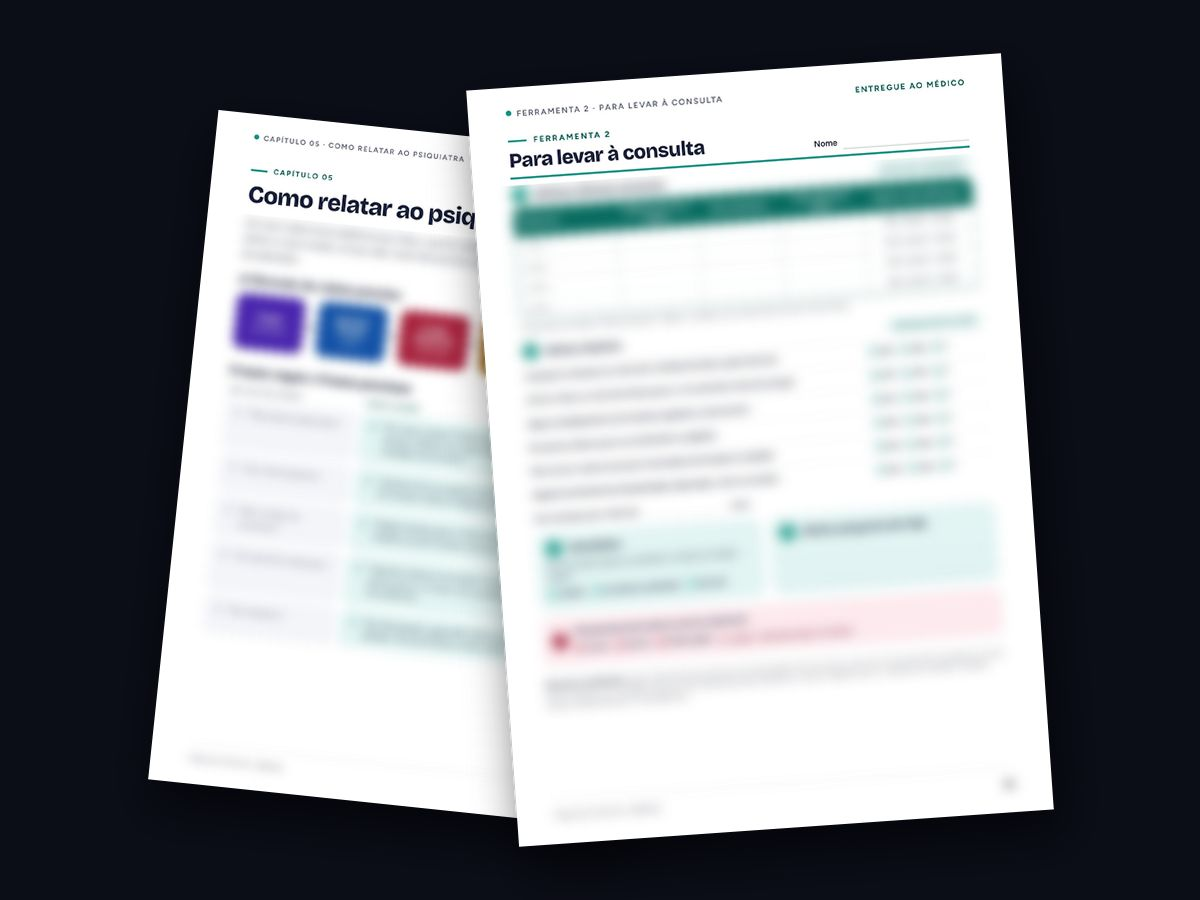
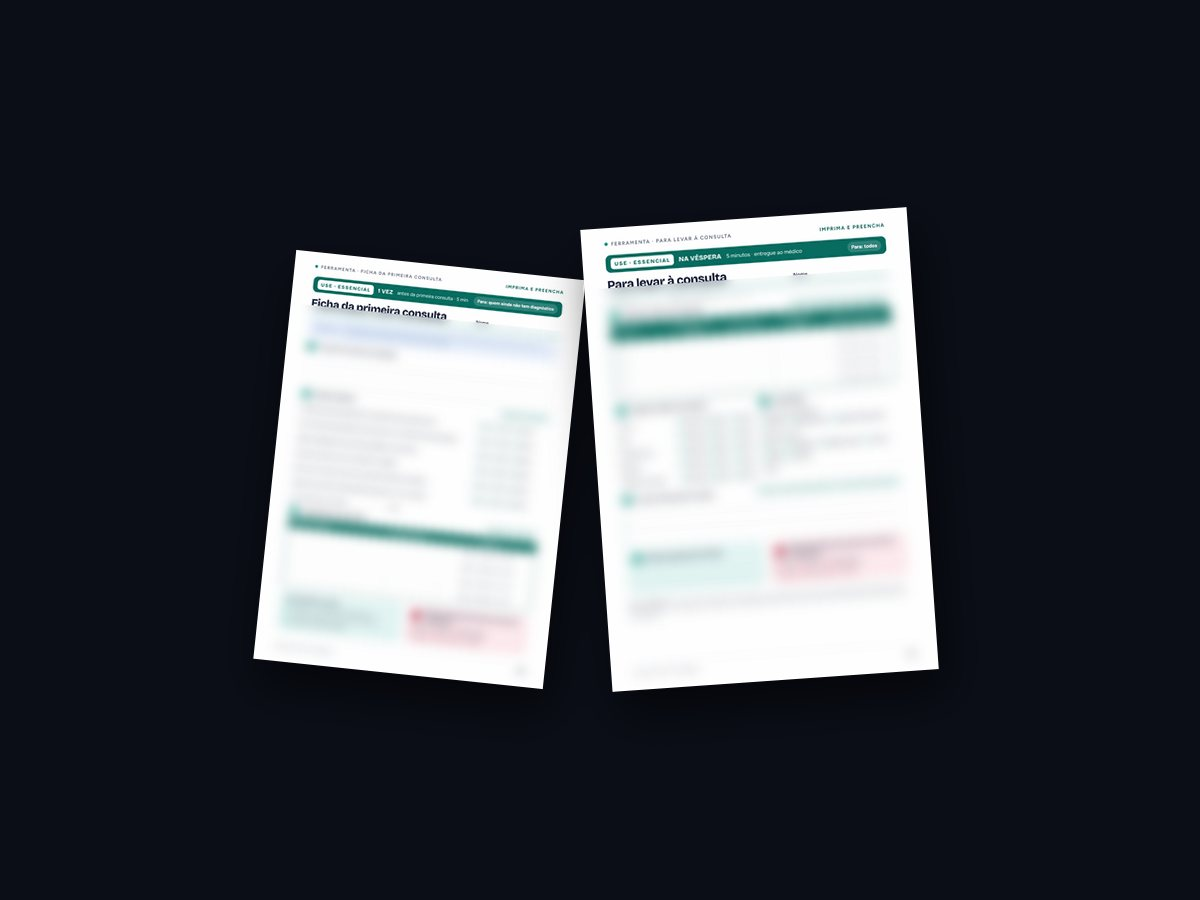
Guia para a primeira consulta: R$ 14,90, conteúdo v3, prévias e OG novos, atalho /app
Claude-Session: https://claude.ai/code/session_013hw32YeBtKAWYbxuXzWhPS

diff --git a/mapa-dos-sintomas/index.html b/mapa-dos-sintomas/index.html
@@ -4,11 +4,11 @@
   <meta charset="utf-8">
   <meta name="viewport" content="width=device-width, initial-scale=1">
   <title>Mapa dos Sintomas — Porta 00 · Draxora</title>
-  <meta name="description" content="Guia + folhas para registrar em 20 segundos por dia e relatar ao psiquiatra com clareza: Transtorno Bipolar (tipos 1 e 2), Borderline e TDAH. R$ 29,90, acesso imediato.">
+  <meta name="description" content="Guia + folhas para a primeira consulta: observe por alguns dias e conte ao psiquiatra com clareza. Bipolaridade, Borderline e TDAH. R$ 14,90, acesso imediato.">
   <meta property="og:title" content="Mapa dos Sintomas — Draxora">
   <meta property="og:description" content="Vai ao psiquiatra e trava na hora de explicar o que sente? Chegue com tudo organizado em uma página.">
   <meta property="og:type" content="website">
-  <meta property="og:image" content="https://draxora.com.br/assets/img/og-mapa-dos-sintomas-v2.jpg">
+  <meta property="og:image" content="https://draxora.com.br/assets/img/og-mapa-dos-sintomas-v3.jpg">
   <meta property="og:url" content="https://draxora.com.br/mapa-dos-sintomas/">
   <link rel="canonical" href="https://draxora.com.br/mapa-dos-sintomas/">
   <meta property="og:image:width" content="1200">
@@ -44,15 +44,15 @@
       <div class="launch-hero-top">
           <span class="dx-selo"><svg viewBox="-12 -12 24 24" width="12" height="12" aria-hidden="true"><path d="M0 -11 L3 -3 L11 0 L3 3 L0 11 L-3 3 L-11 0 L-3 -3 Z" fill="currentColor"/></svg>Bipolar 1 e 2 · Borderline · TDAH</span>
         </div>
-      <h1 class="h-xl">Vai ao psiquiatra e <em>trava</em> na hora de explicar o que sente?</h1>
-      <p class="lead">Um guia + folhas de 20 segundos por dia. Você chega à consulta com tudo em <strong>uma página</strong>.</p>
+      <h1 class="h-xl">Primeira consulta? Chegue sabendo <em>o que contar</em>.</h1>
+      <p class="lead">Um guia + 3 folhas para imprimir. Você observa por alguns dias e chega ao psiquiatra com tudo em <strong>uma página</strong>.</p>
       <figure class="hero-mock"><picture><source srcset="../assets/img/mk-hero.webp" type="image/webp"><img src="../assets/img/mk-hero.jpg" alt="Capa do Mapa dos Sintomas com prévias da Folha da semana e da Página para a consulta" width="1400" height="1060" fetchpriority="high"></picture></figure>
       <div class="home-hero-actions">
-          <a class="dx-btn dx-btn-primary dx-btn-lg" href="checkout/index.html" data-keep-query>Quero o meu por R$ 29,90</a>
+          <a class="dx-btn dx-btn-primary dx-btn-lg" href="checkout/index.html" data-keep-query>Quero o meu por R$ 14,90</a>
         </div>
       <div class="launch-hero-proof">
           <span>Acesso imediato</span>
-          <span>PDF de 22 páginas</span>
+          <span>PDF de 25 páginas</span>
           <span>Garantia de 7 dias</span>
         </div>
     </div>
@@ -62,8 +62,8 @@
     <div class="wrap feat">
       <div class="feat-copy reveal">
         <p class="dx-label dx-label-nicho">O guia · 5 capítulos</p>
-        <h2 class="h-l">Entenda o que diferencia cada quadro.</h2>
-        <p class="lead">Bipolar 1 e 2, Borderline e TDAH explicados sem jargão, com os sinais que costumam passar despercebidos.</p>
+        <h2 class="h-l">Entenda os três quadros, sem jargão.</h2>
+        <p class="lead">Bipolar 1 e 2, Borderline e TDAH, com os sinais que costumam passar despercebidos. Para observar e contar, nunca para se diagnosticar.</p>
         <ul class="feat-chips"><li>Bipolar tipos 1 e 2</li><li>Borderline</li><li>TDAH em adultos</li></ul>
         
       </div>
@@ -76,13 +76,13 @@
     <div class="wrap feat is-rev">
       <div class="feat-copy reveal">
         <p class="dx-label dx-label-nicho">Capítulo 4</p>
-        <h2 class="h-l">Os quatro quadros lado a lado.</h2>
-        <p class="lead">Uma tabela comparativa e uma régua da duração mostram o que o médico precisa saber para diferenciar.</p>
-        <ul class="feat-chips"><li>Tabela comparativa</li><li>Régua da duração</li></ul>
-        <a class="dx-btn dx-btn-primary dx-btn-lg" href="checkout/index.html" data-keep-query>Quero o meu por R$ 29,90</a>
+        <h2 class="h-l">O que vale a pena <em>observar</em>.</h2>
+        <p class="lead">Seis perguntas para você responder antes da consulta, cada uma ligada à folha onde anotar. Fatos, não rótulos.</p>
+        <ul class="feat-chips"><li>Detalhes que vale observar</li><li>Fatos, não rótulos</li></ul>
+        <a class="dx-btn dx-btn-primary dx-btn-lg" href="checkout/index.html" data-keep-query>Quero o meu por R$ 14,90</a>
         
       </div>
-      <figure class="feat-img reveal"><picture><source srcset="../assets/img/mk-tabela.webp" type="image/webp"><img src="../assets/img/mk-tabela.jpg" alt="Prévia da tabela comparativa e da régua da duração" width="1200" height="900" loading="lazy"></picture><figcaption class="prev-tag">Prévia</figcaption></figure>
+      <figure class="feat-img reveal"><picture><source srcset="../assets/img/mk-observar.webp" type="image/webp"><img src="../assets/img/mk-observar.jpg" alt="Prévia das páginas Detalhes que vale a pena observar e Fatos, não rótulos" width="1200" height="900" loading="lazy"></picture><figcaption class="prev-tag">Prévia</figcaption></figure>
     </div>
   </section>
 
@@ -90,9 +90,9 @@
   <section class="section feat-sec">
     <div class="wrap feat">
       <div class="feat-copy reveal">
-        <p class="dx-label dx-label-nicho">Folha da semana</p>
+        <p class="dx-label dx-label-nicho">Minha semana</p>
         <h2 class="h-l">20 segundos por dia. <em>Só pintar.</em></h2>
-        <p class="lead">Sem escrever e sem dar nota. Funciona até no dia ruim.</p>
+        <p class="lead">Sem escrever e sem dar nota. Dia difícil? Só o humor já vale.</p>
         <ul class="feat-chips"><li>1 folha por semana</li><li>Para imprimir</li></ul>
         
       </div>
@@ -104,13 +104,13 @@
   <section class="section feat-sec">
     <div class="wrap feat is-rev">
       <div class="feat-copy reveal">
-        <p class="dx-label dx-label-nicho">Para levar à consulta</p>
-        <h2 class="h-l">Uma página que o médico lê em <em>1 minuto</em>.</h2>
-        <p class="lead">Suas últimas semanas resumidas. Você entrega e a conversa começa do ponto certo.</p>
-        <ul class="feat-chips"><li>Pronta para entregar</li><li>Serve para cada retorno</li></ul>
-        <a class="dx-btn dx-btn-primary dx-btn-lg" href="checkout/index.html" data-keep-query>Quero o meu por R$ 29,90</a>
+        <p class="dx-label dx-label-nicho">Ficha + Para levar à consulta</p>
+        <h2 class="h-l">Sua história e suas semanas em <em>uma página</em>.</h2>
+        <p class="lead">A Ficha conta sua história uma vez. A página da consulta resume as semanas. Você entrega e a conversa começa do ponto certo.</p>
+        <ul class="feat-chips"><li>Pronta para entregar</li><li>Para cada consulta até o diagnóstico</li></ul>
+        <a class="dx-btn dx-btn-primary dx-btn-lg" href="checkout/index.html" data-keep-query>Quero o meu por R$ 14,90</a>
       </div>
-      <figure class="feat-img reveal"><picture><source srcset="../assets/img/mk-consulta.webp" type="image/webp"><img src="../assets/img/mk-consulta.jpg" alt="Prévia da página Para levar à consulta" width="1200" height="900" loading="lazy"></picture><figcaption class="prev-tag">Prévia</figcaption></figure>
+      <figure class="feat-img reveal"><picture><source srcset="../assets/img/mk-consulta.webp" type="image/webp"><img src="../assets/img/mk-consulta.jpg" alt="Prévia da Ficha da primeira consulta e da página Para levar à consulta" width="1200" height="900" loading="lazy"></picture><figcaption class="prev-tag">Prévia</figcaption></figure>
     </div>
   </section>
 
@@ -127,9 +127,8 @@
           <h3>É para você se…</h3>
           <ul class="check-list">
             <li>vai à primeira consulta;</li>
-            <li>não conseguiu explicar nas consultas anteriores;</li>
-            <li>já tem diagnóstico e quer acompanhar;</li>
-            <li>quer ajudar alguém da família.</li>
+            <li>ainda não tem diagnóstico e não conseguiu explicar nas consultas anteriores;</li>
+            <li>quer ajudar alguém da família a se preparar.</li>
           </ul>
         </div>
         <div class="split-col reveal">
@@ -137,7 +136,8 @@
           <ul class="check-list is-no">
             <li>fazer diagnóstico sozinho;</li>
             <li>substituir consulta ou tratamento;</li>
-            <li>mudar medicação por conta própria.</li>
+            <li>mudar medicação por conta própria;</li>
+            <li>acompanhar o tratamento depois do diagnóstico (para isso, vem aí o app).</li>
           </ul>
         </div>
       </div>
@@ -168,15 +168,15 @@
         <p class="dx-label">Guia + ferramentas</p>
         <h3 class="dx-offer-title" id="offer-title">Mapa dos Sintomas</h3>
         <ul class="dx-offer-list">
-          <li><span class="dx-check" aria-hidden="true"></span>Guia ilustrado de 22 páginas, 5 capítulos</li>
-          <li><span class="dx-check" aria-hidden="true"></span>Tabela comparativa e régua da duração</li>
-          <li><span class="dx-check" aria-hidden="true"></span>Folha da semana: 20 segundos por dia</li>
-          <li><span class="dx-check" aria-hidden="true"></span>Página pronta para a consulta</li>
+          <li><span class="dx-check" aria-hidden="true"></span>Guia ilustrado de 25 páginas, 5 capítulos</li>
+          <li><span class="dx-check" aria-hidden="true"></span>Ficha da primeira consulta</li>
+          <li><span class="dx-check" aria-hidden="true"></span>Minha semana: 20 segundos por dia</li>
+          <li><span class="dx-check" aria-hidden="true"></span>Página pronta para cada consulta</li>
         </ul>
         <div class="dx-offer-price">
           <span class="dx-offer-inst">Pagamento único</span>
-          <strong class="price-tag">R$ 29,90</strong>
-          <span class="dx-offer-inst">ou em até 3x no cartão (com acréscimo)</span>
+          <strong class="price-tag">R$ 14,90</strong>
+          <span class="dx-offer-inst">Pix, cartão ou boleto</span>
         </div>
         <a class="dx-btn dx-btn-primary dx-btn-lg" href="checkout/index.html" data-keep-query>Quero o Mapa dos Sintomas</a>
         <p class="dx-offer-guarantee">Acesso imediato · Garantia de 7 dias pela Hotmart</p>
@@ -194,8 +194,8 @@
       <div class="dx-faq reveal">
         <details class="dx-faq-item" open><summary><span>O guia diz qual transtorno eu tenho?</span><span class="dx-faq-icon" aria-hidden="true"></span></summary><div class="dx-faq-a">Não. Ele ajuda você a observar e descrever o que sente. Quem avalia e diagnostica é o profissional.</div></details>
         <details class="dx-faq-item"><summary><span>Como recebo o material?</span><span class="dx-faq-icon" aria-hidden="true"></span></summary><div class="dx-faq-a">Logo após a confirmação do pagamento, você recebe por e-mail o acesso à área de membros da Hotmart, onde baixa o PDF para ler no celular ou imprimir. No Pix e no cartão a liberação é imediata; no boleto, após a compensação.</div></details>
-        <details class="dx-faq-item"><summary><span>Serve se eu já tenho um diagnóstico?</span><span class="dx-faq-icon" aria-hidden="true"></span></summary><div class="dx-faq-a">Sim. A folha da semana e a página da consulta ajudam a acompanhar a evolução e a conversar com o médico em cada retorno.</div></details>
-        <details class="dx-faq-item"><summary><span>Posso usar para ajudar alguém da família?</span><span class="dx-faq-icon" aria-hidden="true"></span></summary><div class="dx-faq-a">Pode. Muita informação importante, como fases de euforia, é percebida primeiro por quem convive com a pessoa. A folha da semana tem uma pergunta para quem convive com você responder no domingo. Se possível, vá junto à consulta.</div></details>
+        <details class="dx-faq-item"><summary><span>E se eu já tenho um diagnóstico?</span><span class="dx-faq-icon" aria-hidden="true"></span></summary><div class="dx-faq-a">Este guia é para o caminho até o diagnóstico. Para acompanhar o tratamento depois dele, estamos criando o app do Mapa dos Sintomas: deixe seu e-mail no fim desta página para saber em primeira mão.</div></details>
+        <details class="dx-faq-item"><summary><span>Posso usar para ajudar alguém da família?</span><span class="dx-faq-icon" aria-hidden="true"></span></summary><div class="dx-faq-a">Pode. Muita informação importante, como fases de euforia, é percebida primeiro por quem convive com a pessoa. A Minha semana tem uma pergunta para quem convive com você responder no domingo. Se possível, vá junto à consulta.</div></details>
         <details class="dx-faq-item"><summary><span>Quem escreveu?</span><span class="dx-faq-icon" aria-hidden="true"></span></summary><div class="dx-faq-a">Elias Jr, engenheiro de software e fundador da Draxora. O conteúdo foi revisado pela psicóloga Tatiane Moraes Araujo (CRP 20/05360).</div></details>
         <details class="dx-faq-item"><summary><span>Estou numa fase muito difícil. O que faço?</span><span class="dx-faq-icon" aria-hidden="true"></span></summary><div class="dx-faq-a">Se você está pensando em se machucar ou em tirar a própria vida, a prioridade é conversar com alguém agora. O CVV atende 24 horas, de graça, pelo 188 ou em cvv.org.br. Em emergência, ligue 192 (SAMU) ou vá ao pronto-socorro mais próximo.</div></details>
       </div>
@@ -207,7 +207,7 @@
     <div class="wrap reveal">
       <img src="../assets/img/draxora-simbolo-nicho-mente.svg" alt="" width="64" height="68" aria-hidden="true">
       <h2 class="h-l">Você não precisa ter certeza. Só precisa ser claro.</h2>
-      <a class="dx-btn dx-btn-primary dx-btn-lg" href="checkout/index.html" data-keep-query>Quero o meu por R$ 29,90</a>
+      <a class="dx-btn dx-btn-primary dx-btn-lg" href="checkout/index.html" data-keep-query>Quero o meu por R$ 14,90</a>
     </div>
   </section>
 
@@ -216,9 +216,9 @@
     <div class="wrap reveal">
       <div class="door-next">
         <div class="door-next-copy">
-          <span class="door-lock">Em breve · o próximo passo</span>
-          <h3>O Mapa dos Sintomas vai virar app.</h3>
-          <p>O guia e as folhas vão para o celular: registre o dia em segundos e chegue à consulta com tudo pronto. Deixe seu e-mail e receba as novidades do app em primeira mão.</p>
+          <span class="door-lock">Depois do diagnóstico</span>
+          <h3>Já tem diagnóstico? O app do Mapa dos Sintomas está a caminho.</h3>
+          <p>Para acompanhar o tratamento: registre o dia em segundos e chegue a cada retorno com tudo pronto. Deixe seu e-mail e receba as novidades do app em primeira mão.</p>
           <p class="door-count" data-count="mapa-dos-sintomas" hidden><strong></strong> pessoas esperando o app</p>
         </div>
         <form class="dx-lead" data-endpoint="../api/inscrever.php" novalidate>
@@ -258,6 +258,6 @@
   </div>
 </footer>
 
-<script src="../assets/js/main.js?v=202610191150" defer></script>
+<script src="../assets/js/main.js?v=202610200500" defer></script>
 </body>
 </html>

diff --git a/mapa-dos-sintomas/checkout/index.html b/mapa-dos-sintomas/checkout/index.html
@@ -51,21 +51,21 @@
           <div class="ck-product-info">
             <p class="dx-label"><span class="dx-label-num">00</span>Porta Draxora</p>
             <h2 id="ck-order-title">Mapa dos Sintomas</h2>
-            <p class="muted">Ebook em PDF + folhas para imprimir</p>
+            <p class="muted">Guia para a primeira consulta em PDF + folhas para imprimir</p>
             <span class="ck-badge">Acesso imediato por e-mail</span>
           </div>
         </div>
 
         <ul class="dx-offer-list ck-items">
-          <li><span class="dx-check" aria-hidden="true"></span>Ebook ilustrado de 22 páginas, 5 capítulos</li>
-          <li><span class="dx-check" aria-hidden="true"></span>Tabela comparativa e régua da duração dos 4 quadros</li>
-          <li><span class="dx-check" aria-hidden="true"></span>Folha da semana: 20 segundos por dia, só pintando</li>
-          <li><span class="dx-check" aria-hidden="true"></span>Página pronta para levar à consulta</li>
+          <li><span class="dx-check" aria-hidden="true"></span>Ebook ilustrado de 25 páginas, 5 capítulos</li>
+          <li><span class="dx-check" aria-hidden="true"></span>Ficha da primeira consulta</li>
+          <li><span class="dx-check" aria-hidden="true"></span>Minha semana: 20 segundos por dia, só pintando</li>
+          <li><span class="dx-check" aria-hidden="true"></span>Página pronta para cada consulta</li>
         </ul>
 
         <div class="ck-total">
           <span>Total</span>
-          <span class="ck-total-value"><strong>R$ 29,90</strong><small>Pagamento único · ou em até 3x no cartão, com acréscimo</small></span>
+          <span class="ck-total-value"><strong>R$ 14,90</strong><small>Pagamento único</small></span>
         </div>
       </section>
 
@@ -80,7 +80,7 @@
             </li>
             <li>
               <svg viewBox="0 0 24 24" width="22" height="22" aria-hidden="true"><rect x="3" y="5.5" width="18" height="13" rx="2" fill="none" stroke="currentColor" stroke-width="2"/><path d="M3 10h18" stroke="currentColor" stroke-width="2"/></svg>
-              <span><strong>Cartão de crédito</strong><small>À vista ou em até 3x, com acréscimo</small></span>
+              <span><strong>Cartão de crédito</strong><small>À vista, aprovação na hora</small></span>
             </li>
             <li>
               <svg viewBox="0 0 24 24" width="22" height="22" aria-hidden="true"><path d="M4 5v14M7 5v14M10 5v14M14 5v14M16 5v14M20 5v14" stroke="currentColor" stroke-width="2"/></svg>
@@ -125,6 +125,6 @@
   </div>
 </footer>
 
-<script src="../../assets/js/main.js?v=202610170040" defer></script>
+<script src="../../assets/js/main.js?v=202610200500" defer></script>
 </body>
 </html>

diff --git a/app/index.html b/app/index.html
@@ -1,0 +1,15 @@
+<!doctype html>
+<html lang="pt-BR">
+<head>
+  <meta charset="utf-8">
+  <meta name="viewport" content="width=device-width, initial-scale=1">
+  <title>App do Mapa dos Sintomas · Draxora</title>
+  <meta name="robots" content="noindex">
+  <meta http-equiv="refresh" content="0; url=../mapa-dos-sintomas/?utm_source=guia&amp;utm_medium=pdf&amp;utm_campaign=ponte-app#app">
+  <link rel="canonical" href="https://draxora.com.br/mapa-dos-sintomas/">
+  <script>location.replace('../mapa-dos-sintomas/?utm_source=guia&utm_medium=pdf&utm_campaign=ponte-app#app');</script>
+</head>
+<body style="background:#0B0D17;color:#F5F1EA;font-family:sans-serif;padding:24px">
+  <p>Abrindo o app do Mapa dos Sintomas… <a style="color:#FF8A4C" href="../mapa-dos-sintomas/?utm_source=guia&amp;utm_medium=pdf&amp;utm_campaign=ponte-app#app">Toque aqui se não abrir.</a></p>
+</body>
+</html>

diff --git a/index.html b/index.html
@@ -8,7 +8,7 @@
   <meta property="og:title" content="Draxora">
   <meta property="og:description" content="Toda transformação começa com uma porta entreaberta.">
   <meta property="og:type" content="website">
-  <meta property="og:image" content="https://draxora.com.br/assets/img/og-mapa-dos-sintomas-v2.jpg">
+  <meta property="og:image" content="https://draxora.com.br/assets/img/og-mapa-dos-sintomas-v3.jpg">
   <meta property="og:image:width" content="1200">
   <meta property="og:image:height" content="630">
   <meta property="og:locale" content="pt_BR">
@@ -195,6 +195,6 @@
   </form>
 </dialog>
 
-<script src="assets/js/main.js?v=202610170040" defer></script>
+<script src="assets/js/main.js?v=202610200500" defer></script>
 </body>
 </html>

diff --git a/assets/js/main.js b/assets/js/main.js
@@ -10,7 +10,7 @@
   // META_PIXEL_ID: só números (Gerenciador de Eventos da Meta). GTAG_ID: 'G-XXXX' (GA4) ou 'AW-XXXX' (Google Ads).
   var META_PIXEL_ID = '1760580708485734';
   var GTAG_ID = '';
-  var PRODUCT = { name: 'Mapa dos Sintomas', id: 'Y108011719G', value: 29.90, currency: 'BRL' };
+  var PRODUCT = { name: 'Mapa dos Sintomas', id: 'Y108011719G', value: 14.90, currency: 'BRL' };
 
   // Header ganha borda ao rolar
   var header = document.querySelector('.site-header');

diff --git a/privacidade/index.html b/privacidade/index.html
@@ -76,6 +76,6 @@
   </div>
 </footer>
 
-<script src="../assets/js/main.js?v=202610170040" defer></script>
+<script src="../assets/js/main.js?v=202610200500" defer></script>
 </body>
 </html>

diff --git a/termos/index.html b/termos/index.html
@@ -61,6 +61,6 @@
   </div>
 </footer>
 
-<script src="../assets/js/main.js?v=202610170040" defer></script>
+<script src="../assets/js/main.js?v=202610200500" defer></script>
 </body>
 </html>
